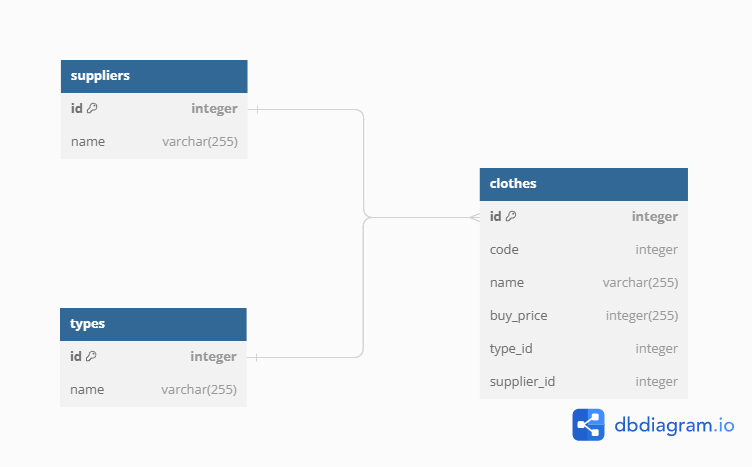
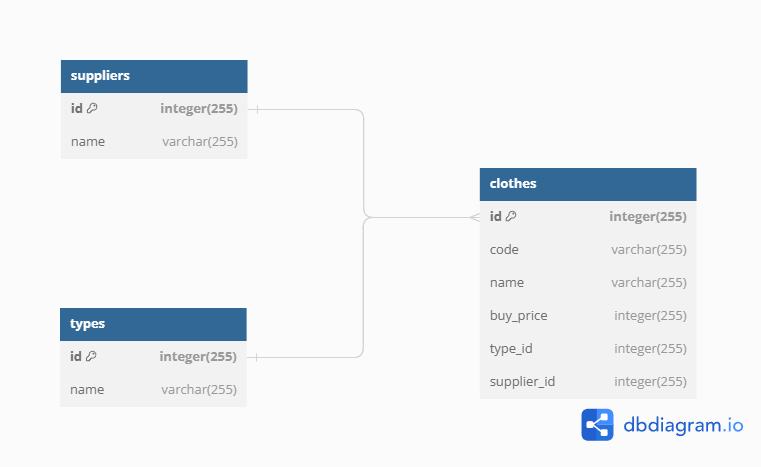
create clothes_market CRUD, Model, Controller etc.

diff --git a/controllers/clothes_controller.py b/controllers/clothes_controller.py
@@ -1,0 +1,94 @@
+from odoo import http
+from odoo.http import request, Response
+import json
+
+
+class ClothesController(http.Controller):
+    @http.route('/clothes_market/backend/clothes_controller/create', auth='public', type='http', methods=['post'], csrf=False)
+    def create(self, **kw):
+        req = request.httprequest.data
+        req = json.loads(req)
+
+        clothes_module = request.env['clothes_market.clothes']
+
+        if req['buy_price'] < 100:
+            raise ValueError("Buy price cannot be under 100")
+        if clothes_module.search([("code", "=", req['code'])]):
+            raise ValueError("Code must be unique")
+
+        clothes_module.create(req)
+
+    @http.route('/clothes_market/backend/clothes_controller/retrieve', auth='public', type='http', methods=['get'])
+    def retrieve(self, **kw):
+        output = []
+        search_condition = []
+
+        req_id = kw.get('cloth_id')
+        req_type_id = kw.get('type_id')
+
+        if req_id != None:
+            search_condition.append(('id', '=', int(req_id)))
+        if req_type_id != None:
+            search_condition.append(('type_id', '=', int(req_type_id)))
+
+        clothes_list = request.env['clothes_market.clothes'].search(
+            search_condition)
+
+        for cloth in clothes_list:
+            id = cloth['id']
+            code = cloth['code']
+            name = cloth['name']
+            buy_price = cloth['buy_price']
+            type_name = cloth['type_id']['name']
+            supplier_name = cloth['supplier_id']['name']
+            output.append(
+                {
+                    'cloth_id': id,
+                    'cloth_code': code,
+                    'cloth_name': name,
+                    'cloth_buy_price': buy_price,
+                    'cloth_type_name': type_name,
+                    'cloth_supplier_name': supplier_name,
+                })
+
+        headers = {'Content-Type': 'application/json'}
+        return Response(json.dumps(output), headers=headers)
+
+    @http.route('/clothes_market/backend/clothes_controller/update', auth='public', type='http', methods=['post'], csrf=False)
+    def update(self, **kw):
+        req = request.httprequest.data
+        req = json.loads(req)
+
+        clothes_module = request.env['clothes_market.clothes']
+
+        req_id = req['id']
+
+        old_data_list = clothes_module.search([('id', '=', int(req_id))])
+
+        if len(old_data_list) < 1:
+            raise ValueError("Cloth with given ID is not found")
+
+        old_code = old_data_list['code']
+        new_code = req['code']
+
+        if req['buy_price'] < 100:
+            raise ValueError("Buy price cannot be under 100")
+        if clothes_module.search([("code", "=", req['code'])]) and new_code != old_code:
+            raise ValueError("Code must be unique")
+
+        old_data_list.write(req)
+
+    @http.route('/clothes_market/backend/clothes_controller/delete', auth='public', type='http', methods=['post'], csrf=False)
+    def delete(self, **kw):
+        req = request.httprequest.data
+        req = json.loads(req)
+
+        clothes_module = request.env['clothes_market.clothes']
+
+        req_id = req['id']
+
+        target_delete = clothes_module.search([('id', '=', int(req_id))])
+        if len(target_delete) < 1:
+            raise ValueError("Cloth with given ID is not found")
+
+        target_delete.unlink()

diff --git a/controllers/suppliers_controller.py b/controllers/suppliers_controller.py
@@ -1,0 +1,66 @@
+from odoo import http
+from odoo.http import request, Response
+import json
+
+
+class SuppliersController(http.Controller):
+    @http.route('/clothes_market/backend/suppliers_controller/create', auth='public', type='http', methods=['post'], csrf=False)
+    def create(self, **kw):
+        req = request.httprequest.data
+        req = json.loads(req)
+
+        suppliers_module = request.env['clothes_market.suppliers']
+
+        suppliers_module.create(req)
+
+    @http.route('/clothes_market/backend/suppliers_controller/retrieve', auth='public', type='http', methods=['get'])
+    def retrieve(self, **kw):
+        output = []
+        search_condition = []
+
+        req_id = kw.get('supplier_id')
+
+        if req_id != None:
+            search_condition.append(('id', '=', int(req_id)))
+
+        suppliers_list = request.env['clothes_market.suppliers'].search(
+            search_condition)
+
+        for supplier in suppliers_list:
+            id = supplier['id']
+            name = supplier['name']
+            output.append({'supplier_id': id, 'supplier_name': name})
+
+        headers = {'Content-Type': 'application/json'}
+        return Response(json.dumps(output), headers=headers)
+
+    @http.route('/clothes_market/backend/suppliers_controller/update', auth='public', type='http', methods=['post'], csrf=False)
+    def update(self, **kw):
+        req = request.httprequest.data
+        req = json.loads(req)
+
+        suppliers_module = request.env['clothes_market.suppliers']
+
+        req_id = req['id']
+
+        old_data_list = suppliers_module.search([('id', '=', int(req_id))])
+
+        if len(old_data_list) < 1:
+            raise ValueError("Supplier with given ID is not found")
+
+        old_data_list.write(req)
+
+    @http.route('/clothes_market/backend/suppliers_controller/delete', auth='public', type='http', methods=['post'], csrf=False)
+    def delete(self, **kw):
+        req = request.httprequest.data
+        req = json.loads(req)
+
+        suppliers_module = request.env['clothes_market.suppliers']
+
+        req_id = req['id']
+
+        target_delete = suppliers_module.search([('id', '=', int(req_id))])
+        if len(target_delete) < 1:
+            raise ValueError("Supplier with given ID is not found")
+
+        target_delete.unlink()

diff --git a/controllers/types_controller.py b/controllers/types_controller.py
@@ -1,0 +1,70 @@
+from odoo import http
+from odoo.http import request, Response
+import json
+
+
+class TypesController(http.Controller):
+    @http.route('/clothes_market/backend/types_controller/create', auth='public', type='http', methods=['post'], csrf=False)
+    def create(self, **kw):
+        req = request.httprequest.data
+        req = json.loads(req)
+
+        types_module = request.env['clothes_market.types']
+
+        req['name'] = req['name'].lower()
+
+        types_module.create(req)
+
+    @http.route('/clothes_market/backend/types_controller/retrieve', auth='public', type='http', methods=['get'])
+    def retrieve(self, **kw):
+        output = []
+        search_condition = []
+
+        req_id = kw.get('type_id')
+
+        if req_id != None:
+            search_condition.append(('id', '=', int(req_id)))
+
+        types_list = request.env['clothes_market.types'].search(
+            search_condition)
+
+        for type in types_list:
+            id = type['id']
+            name = type['name']
+            output.append({'type_id': id, 'type_name': name})
+
+        headers = {'Content-Type': 'application/json'}
+        return Response(json.dumps(output), headers=headers)
+
+    @http.route('/clothes_market/backend/types_controller/update', auth='public', type='http', methods=['post'], csrf=False)
+    def update(self, **kw):
+        req = request.httprequest.data
+        req = json.loads(req)
+
+        types_module = request.env['clothes_market.types']
+
+        req_id = req['id']
+
+        old_data_list = types_module.search([('id', '=', int(req_id))])
+
+        if len(old_data_list) < 1:
+            raise ValueError("Type with given ID is not found")
+
+        req['name'] = req['name'].lower()
+
+        old_data_list.write(req)
+
+    @http.route('/clothes_market/backend/types_controller/delete', auth='public', type='http', methods=['post'], csrf=False)
+    def delete(self, **kw):
+        req = request.httprequest.data
+        req = json.loads(req)
+
+        types_module = request.env['clothes_market.types']
+
+        req_id = req['id']
+
+        target_delete = types_module.search([('id', '=', int(req_id))])
+        if len(target_delete) < 1:
+            raise ValueError("Type with given ID is not found")
+
+        target_delete.unlink()

diff --git a/models/clothes_model.py b/models/clothes_model.py
@@ -1,0 +1,15 @@
+from odoo import models, fields
+
+
+class ClothesModel(models.Model):
+    _name = "clothes_market.clothes"
+    _description = "Save clothes"
+
+    code = fields.Char(required=True, string="Cloth's Code", size=50)
+    name = fields.Char(required=True, string="Cloth's Name", size=50)
+    buy_price = fields.Integer(required=True, string="Cloth's Price")
+
+    type_id = fields.Many2one(
+        comodel_name="clothes_market.types", ondelete="restrict", string="Cloth's Type", required=True)
+    supplier_id = fields.Many2one(
+        comodel_name="clothes_market.suppliers", ondelete="restrict", string="Cloth's Supplier", required=True)

diff --git a/__manifest__.py b/__manifest__.py
@@ -1,0 +1,19 @@
+{
+    'name': "Clothes Market Backend",
+    'version': '1.0',
+    'depends': ['base'],
+    'author': "Oscar Deladas",
+    'category': 'Marketing',
+    'license': 'LGPL-3',
+    'installable': True,
+    'application': False,
+    'description': """
+    A module to save clothes
+    """,
+    # data files always loaded at installation
+    'data': ['data/ir.model.access.csv',
+             'data/clothes_market.suppliers.csv',
+             'data/clothes_market.types.csv'],
+    # data files containing optionally loaded demonstration data
+    'demo': [],
+}

diff --git a/models/suppliers_model.py b/models/suppliers_model.py
@@ -1,0 +1,8 @@
+from odoo import models, fields
+
+
+class SuppliersModel(models.Model):
+    _name = "clothes_market.suppliers"
+    _description = "Save cloth's supplier"
+
+    name = fields.Char(required=True, string="Supplier's Name", size=50)

diff --git a/models/types_model.py b/models/types_model.py
@@ -1,0 +1,8 @@
+from odoo import models, fields
+
+
+class TypesModel(models.Model):
+    _name = "clothes_market.types"
+    _description = "Save cloth's type"
+
+    name = fields.Char(required=True, string="Type's Name", size=50)

diff --git a/controllers/__init__.py b/controllers/__init__.py
@@ -1,0 +1,3 @@
+from . import clothes_controller
+from . import suppliers_controller
+from . import types_controller

diff --git a/models/__init__.py b/models/__init__.py
@@ -1,0 +1,3 @@
+from . import clothes_model
+from . import suppliers_model
+from . import types_model

diff --git a/__init__.py b/__init__.py
@@ -1,0 +1,3 @@
+from . import models
+from . import data
+from . import controllers
